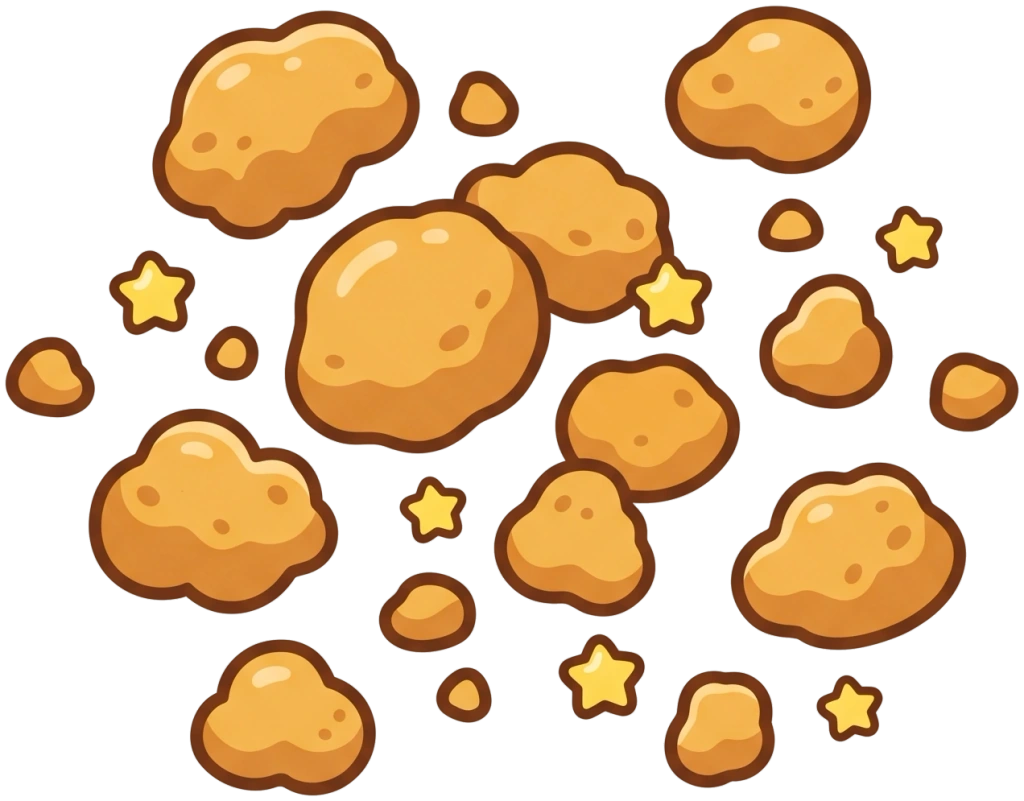
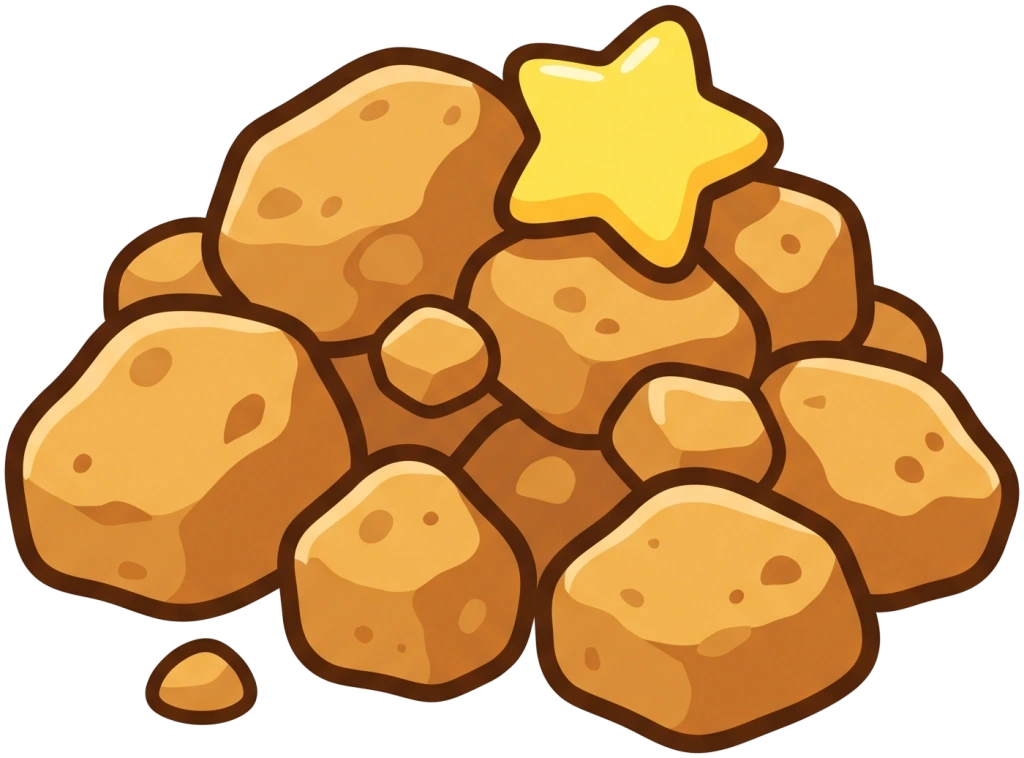
Dedektif Vaka 3: bolum E cizimleri (roman 1-4, kapak) baglandi; tohum ve kirinti yeniden cizimleri
- assets/dedektif3: roman-1..4 ve kapak (Gemini, zemin kalir, 2048x1529); resimler3.ts'te bolum E yer tutucusu kalmadi
- Vaka 3 roman kareleri cercevesiz: karenin icini tam doldurur (cift cerceve kirpimi yok)
- ipucu-tohum-v2 / ipucu-kirinti-v2 eski anahtarlarin yerine (dedektif3-isle.cjs: -vN eki bilerek ezer, -eski PNG islenmez)
- Tohum patikanin kumuna (yatay + dikey), kirinti dikeyde pervazin ustune
- Dikey final: palamut kurabiyesi tabelanin onunde ve solda, tabela kucuk ve sagda, Findik biraz sagda

diff --git a/dedektif/src/resimler3.ts b/dedektif/src/resimler3.ts
@@ -7,7 +7,8 @@
  *     Dosyayı klasöre koymak yeter, kod değişmez (Vite derlemede klasörü tarar; -2, -3 sürüm eki: en büyüğü).
  *  2. KULLAN: depoda zaten olan bir çizim (yeniden kullanım tablosu, senaryodaki "Yeniden kullanılan"lar).
  *  3. YER_TUTUCU: çizim gelene kadar özenli bir yer tutucu (tuvalde kurulur: var olan çizimlerden kırpım / bileşim ve
- *     SVG; yer-tutucu3.ts). Yalnız dosya yoksa üretilir.
+ *     SVG; yer-tutucu3.ts). Yalnız dosya yoksa üretilir. Bölüm B ve E'nin bütün çizimleri geldi: oyunda hiçbiri
+ *     kurulmaz; bölüm E'nin (roman, kapak) yer tutucusu kaldırıldı, B'ninkiler yalnız yedek.
  *  4. TURETILEN: her zaman kodla kurulan bileşimler (kartlardaki 2/4/6 kurabiye, delil fotoğrafları): kaynakları
  *     yukarıdaki sırayla çözülür, Gemini çizimi gelince onlar da kendiliğinden onunla kurulur.
  *
@@ -19,7 +20,6 @@ import {
   agacOnSvg,
   ekmekSvg,
   elIziSvg,
-  geceSvg,
   icEkSvg,
   kalpSvg,
   kapiSvg,
@@ -242,7 +242,7 @@ const SABIT: Record<string, () => string> = {
   'kirinti-tek': () => svgSar(80, 80, `${YS_DEFS}${yildizSeker(40, 40, 30, -80)}`),
 };
 
-// ---------------------------------------------------------------- yer tutucular (bölüm B, E)
+// ---------------------------------------------------------------- yer tutucular (yalnız bölüm B; çizimleri geldi, yedek)
 const kare = (n: number, ciz: (t: Tuval) => Promise<void>): Tarif => ({ w: n, h: n, ciz });
 /** sahne yer tutucularının boyu (4096 × 2286'nın küçüğü: yalnız çizim gelene dek) */
 const SW = 2560;
@@ -360,57 +360,6 @@ export const YER_TUTUCU: Record<string, Tarif> = {
   }),
   palamut: kare(600, (t) => t.svg(palamutSvg(), 0, 0, t.w, t.h)),
   'palamut-kurabiye': kare(600, (t) => t.svg(palamutKurabiyeSvg(), 0, 0, t.w, t.h)),
-  // E1-E4: çizgi roman kareleri (4:3)
-  'roman-1': {
-    w: 1600,
-    h: 1200,
-    async ciz(t) {
-      await sahneKirp(t, 'v3/otobus-ic', [0.52, 0.28, 0.98, 0.9]);
-      await t.svg(geceSvg(1600, 1200), 0, 0, t.w, t.h);
-      for (let i = 0; i < 6; i++) await t.resim('v3/kurabiye', t.w * (0.14 + i * 0.12), t.h * 0.64, t.w * 0.11, t.w * 0.11, { don: (i % 2 ? 8 : -8) });
-      await t.resim('v3/findik-kuyruk', t.w * 0.86, t.h * 0.42, t.w * 0.1, undefined, { don: 160 });
-    },
-  },
-  'roman-2': {
-    w: 1600,
-    h: 1200,
-    async ciz(t) {
-      await sahneKirp(t, 'v3/otobus-ic', [0.52, 0.28, 0.98, 0.9]);
-      await t.svg(geceSvg(1600, 1200), 0, 0, t.w, t.h);
-      await t.resim('v3/findik-yanak', t.w * 0.28, t.h * 0.18, t.w * 0.5, t.w * 0.5);
-      await t.resim('v3/kurabiye', t.w * 0.36, t.h * 0.66, t.w * 0.14, t.w * 0.14, { don: -12 });
-      await t.resim('v3/kurabiye', t.w * 0.47, t.h * 0.68, t.w * 0.14, t.w * 0.14, { don: 10 });
-    },
-  },
-  'roman-3': {
-    w: 1600,
-    h: 1200,
-    async ciz(t) {
-      await sahneKirp(t, 'v3/otobus-yani', [0.5, 0.4, 0.93, 0.98]);
-      await t.svg(svgSar(1600, 1200, `${YS_DEFS}${[0, 1, 2, 3, 4, 5].map((i) => yildizSeker(160 + i * 150, 1000 - i * 40 + (i % 2) * 30, 22, -90 + i * 20)).join('')}`), 0, 0, t.w, t.h);
-      await t.resim('v3/findik', t.w * 0.5, t.h * 0.3, t.w * 0.4, t.w * 0.4, { ayna: true, don: 8 });
-    },
-  },
-  'roman-4': {
-    w: 1600,
-    h: 1200,
-    async ciz(t) {
-      await sahneKirp(t, 'v3/agac', [0.46, 0.42, 0.88, 0.98]);
-      await t.resim('v3/findik-sarilma', t.w * 0.36, t.h * 0.42, t.w * 0.32, t.w * 0.32);
-      await t.resim('dosya:dedektif/poz-mino-rahat', t.w * 0.02, t.h * 0.3, t.w * 0.32);
-      await t.resim('dosya:dedektif2/kino-sarilma', t.w * 0.66, t.h * 0.3, t.w * 0.32);
-      await t.resim('v3/palamut', t.w * 0.77, t.h * 0.385, t.w * 0.06, t.w * 0.06, { don: 14 });
-    },
-  },
-  // E5: Vaka Dosyam kapağı: ağaç, kovuktan bakan yanakları şiş Fındık
-  kapak: {
-    w: 1600,
-    h: 1200,
-    async ciz(t) {
-      await sahneKirp(t, 'v3/agac', [0.555, 0.43, 0.89, 0.88]);
-      await t.resim('v3/findik-yanak', t.w * 0.3, t.h * 0.2, t.w * 0.46, t.w * 0.46);
-    },
-  },
 };
 
 /** Otobüs içinin bir parçası (kapı, pencere, baca) kart için: kutunun çevresi biraz payla, karenin ortasına */
@@ -449,7 +398,7 @@ async function parca(t: Tuval, k: { x0: number; y0: number; x1: number; y1: numb
   t.c.roundRect?.(t.w * 0.04, t.h * 0.04, t.w * 0.92, t.h * 0.92, r);
   t.c.stroke();
 }
-/** Sahneden kırpım tuvali doldurur (kare / roman) */
+/** Sahneden kırpım tuvali doldurur (kart, fotoğraf) */
 async function sahneKirp(t: Tuval, ad: string, k: [number, number, number, number]) {
   await t.resim(ad, 0, 0, t.w, t.h, { kirp: k });
 }

diff --git a/dedektif/src/mantik3.ts b/dedektif/src/mantik3.ts
@@ -132,7 +132,7 @@ export const HALKALAR3: Halka3[] = [
     oda: 'otobus-yani',
     kadraj: [0.36, 0.55, 0.8, 0.95],
     ipuclari: [
-      { id: 'tohum', oda: 'otobus-yani', resim: 'v3/ipucu-tohum', x: 0.462, y: 0.715, h: 0.06, gizli: true },
+      { id: 'tohum', oda: 'otobus-yani', resim: 'v3/ipucu-tohum', x: 0.518, y: 0.73, h: 0.055, gizli: true },
       { id: 'havuc', oda: 'otobus-yani', resim: 'v3/havuc', x: 0.575, y: 0.722, h: 0.06, don: -12, gizli: true },
       { id: 'seker', oda: 'otobus-yani', resim: 'v3/ipucu-yildiz-seker', x: 0.66, y: 0.77, h: 0.055, gizli: true },
     ],
@@ -344,7 +344,7 @@ const YATAY3: Tablo3 = {
     },
   },
   'otobus-yani': {
-    ipucu: { tohum: { x: 0.462, y: 0.715, h: 0.06 }, havuc: { x: 0.575, y: 0.722, h: 0.06, don: -12 }, seker: { x: 0.66, y: 0.77, h: 0.055 } },
+    ipucu: { tohum: { x: 0.518, y: 0.73, h: 0.055 }, havuc: { x: 0.575, y: 0.722, h: 0.06, don: -12 }, seker: { x: 0.66, y: 0.77, h: 0.055 } },
     kadraj: { yol: [0.36, 0.55, 0.8, 0.95] },
     kadraj3: { yani: [0.05, 0.15, 0.85, 1], patikalar: [0.36, 0.55, 0.8, 0.95], izSonu: [0.6, 0.45, 1, 1] },
     // ağaç kolunun ortası: (0.66, 0.77) → (0.95, 0.643); çalının üstünden geçer. Yolda iki şeker eksik (aralık uzun)
@@ -382,7 +382,7 @@ const YATAY3: Tablo3 = {
 
 const DIKEY3: Tablo3 = {
   'otobus-ic': {
-    ipucu: { un: { x: 0.755, y: 0.836, h: 0.07 }, kirinti: { x: 0.82, y: 0.645, h: 0.045 } },
+    ipucu: { un: { x: 0.755, y: 0.836, h: 0.07 }, kirinti: { x: 0.835, y: 0.625, h: 0.045 } },
     // tepsi resmin sağ altında, karakterlerin önünde: sayarken kamera tepsiye yaklaşır (dar kadraj: dunya.ts tam en yapmaz),
     // sahnenin altı ekranın altına dayanır, tepsi karakterlerin başının üstüne çıkar (vaka3.ts: ikisi solda)
     kadraj: { sayi: [0.56, 0.72, 0.95, 0.9], cikis: [0, 0.3, 1, 1] },
@@ -408,13 +408,14 @@ const DIKEY3: Tablo3 = {
       kapi: { x0: 0, y0: 0.21, x1: 0.27, y1: 0.8 },
       surgu: { x: 0.12, y: 0.585 },
       baca: { x0: 0.29, y0: 0.02, x1: 0.66, y1: 0.115 },
-      tabela: { x: 0.69, y: 0.626, h: 0.1 },
-      yeniKurabiye: { x: 0.64, y: 0.618, h: 0.05 },
-      findik: { x: 0.8, y: 0.665, h: 0.17 },
+      // dar pervaz: tabela sağa (Fındık'ın önünde), palamut kurabiyesi solda, tabelanın önünde (arkasında kalıp kaybolmasın)
+      tabela: { x: 0.735, y: 0.64, h: 0.085 },
+      yeniKurabiye: { x: 0.635, y: 0.628, h: 0.068 },
+      findik: { x: 0.85, y: 0.665, h: 0.17 },
     },
   },
   'otobus-yani': {
-    ipucu: { tohum: { x: 0.33, y: 0.775, h: 0.045 }, havuc: { x: 0.475, y: 0.775, h: 0.045, don: -12 }, seker: { x: 0.485, y: 0.878, h: 0.045 } },
+    ipucu: { tohum: { x: 0.375, y: 0.84, h: 0.042 }, havuc: { x: 0.475, y: 0.775, h: 0.045, don: -12 }, seker: { x: 0.485, y: 0.878, h: 0.045 } },
     kadraj: { yol: [0, 0.6, 1, 1] },
     kadraj3: { yani: [0, 0.05, 1, 1], patikalar: [0, 0.6, 1, 1], izSonu: [0, 0.45, 1, 1] },
     // sağ kol: (0.55, 0.855) → (0.92, 0.787); son şeker telefonda da ekranda (x ≤ 0.88)

diff --git a/dedektif/src/yer-tutucu3.ts b/dedektif/src/yer-tutucu3.ts
@@ -404,19 +404,6 @@ ${raf(0.45, 0.28, 0.95)}${raf(0.72, 0.28, 0.95)}${ust}${alt}${karTanesi(X(0.42),
     `<radialGradient id="ki" cx=".55" cy=".45"><stop offset="0" stop-color="#c88a52"/><stop offset=".7" stop-color="#8a5532"/><stop offset="1" stop-color="#5e361c"/></radialGradient><linearGradient id="rf" x1="0" y1="0" x2="0" y2="1"><stop offset="0" stop-color="#d39a5e"/><stop offset="1" stop-color="#a86d3b"/></linearGradient><radialGradient id="cr" cx=".5" cy=".5" r=".75"><stop offset=".6" stop-color="#9a6a42"/><stop offset="1" stop-color="#6e4325"/></radialGradient>${PALAMUT_DEFS}`,
   );
 }
-/** Ay ve yıldızlar (roman: gece) */
-export function geceSvg(w: number, h: number): string {
-  const yildizlar = [
-    [0.15, 0.2],
-    [0.3, 0.12],
-    [0.72, 0.18],
-    [0.85, 0.3],
-    [0.55, 0.08],
-  ]
-    .map(([x, y]) => `<polygon points="${yildizNoktalari(x * w, y * h, w * 0.012, -90, 0.45)}" fill="#fff6c2"/>`)
-    .join('');
-  return svgSar(w, h, `<rect width="${w}" height="${h}" fill="#1d2a5c" opacity=".55"/>${yildizlar}<circle cx="${f(w * 0.72)}" cy="${f(h * 0.2)}" r="${f(w * 0.06)}" fill="#fff4c4" stroke="${KONTUR}" stroke-width="8"/><circle cx="${f(w * 0.745)}" cy="${f(h * 0.185)}" r="${f(w * 0.055)}" fill="#3a4a80" opacity=".0"/>`);
-}
 /** Şişmiş yanaklar (Fındık'ın yanak pozu yer tutucusu): iki yuvarlak balon yanak, kenarı çizgili */
 export function yanakSvg(w: number, h: number, sol: [number, number], sag: [number, number], r: number, renk: string): string {
   const y = (x: number, yy: number) => `<ellipse cx="${f(x)}" cy="${f(yy)}" rx="${f(r)}" ry="${f(r * 0.86)}" fill="${renk}" stroke="${KONTUR}" stroke-width="${f(r * 0.07)}"/><ellipse cx="${f(x)}" cy="${f(yy + r * 0.2)}" rx="${f(r * 0.5)}" ry="${f(r * 0.3)}" fill="#ff8fa3" opacity=".5"/><ellipse cx="${f(x - r * 0.35)}" cy="${f(yy - r * 0.35)}" rx="${f(r * 0.22)}" ry="${f(r * 0.13)}" fill="#fff" opacity=".6"/>`;

diff --git a/dedektif/src/vaka3.css b/dedektif/src/vaka3.css
@@ -40,6 +40,14 @@
 .dd-kok .dd-vk-kapak.dd-vk-agac {
   background: radial-gradient(circle at 50% 38%, #fff6e6, #f3cf9f);
 }
+/* çizgi roman: Vaka 3 kareleri (Gemini, 4:3, kendi çerçevesi yok) karenin içini tam doldurur; Vaka 1-2 karelerinin çift
+   çerçeve kırpımı (dedektif.css: her yandan %1.8) burada gerekmez, kenardaki kuyruk ucu ve palamutlar kesilmez */
+.dd-kok .dd-roman[data-vaka='vaka3'] .dd-kare-ic > img.dd-kare-resim {
+  inset: 0;
+  width: 100%;
+  height: 100%;
+  object-position: 50% 50%;
+}
 
 /* ---------------------------------------------------------------- sahne */
 .dd-kok .dd-vaka3 .dd-sahne {
@@ -192,6 +200,10 @@
   transition: transform 0.45s cubic-bezier(0.3, 1.4, 0.5, 1), opacity 0.25s;
   filter: drop-shadow(0 6px 4px rgba(70, 40, 20, 0.3));
   pointer-events: none;
+}
+/* yeni kurabiye tabelanın önünde (dikeyde pervaz dar: ikisi üst üste biner) */
+.dd-kok .dd-v3-yeni-kurabiye {
+  z-index: 3;
 }
 .dd-kok :is(.dd-v3-tabela, .dd-v3-yeni-kurabiye).acik {
   opacity: 1;

diff --git a/tests/unit/dedektif-vaka3.test.ts b/tests/unit/dedektif-vaka3.test.ts
@@ -262,10 +262,10 @@ describe('Vaka 3: görsel haritası (tek yer, bölüm B adları)', () => {
     }
     // dikey sahneler açık: yerleri ölçüldü (mantik3.ts → DIKEY3)
     expect(DIKEY3_HAZIR).toBe(true);
-    // bölüm B'nin 28 çizimi de geldi; yer tutucuda yalnız bölüm E (roman kareleri, kapak) kalır
-    for (const a of B_LISTESI) expect(eksikler3(), a).not.toContain(a);
-    // henüz çizimi gelmeyenler listesi bölüm B / E adlarından oluşur
-    for (const a of eksikler3()) expect([...B_LISTESI, ...E_LISTESI] as string[]).toContain(a);
+    // bölüm B'nin 28 ve E'nin 5 çizimi de geldi: yer tutucuyla duran dosya yok
+    expect(eksikler3()).toEqual([]);
+    // bölüm E'nin (roman kareleri, kapak) yer tutucusu kaldırıldı: yalnız Gemini çizimi
+    for (const a of E_LISTESI) expect(a in YER_TUTUCU, a).toBe(false);
   });
   it('kodda kullanılan her v3 görseli tanımlı (kartlar, ipuçları, fotoğraflar, demek ki, roman)', () => {
     const adlar = [

diff --git a/dedektif/src/ekranlar.ts b/dedektif/src/ekranlar.ts
@@ -234,7 +234,7 @@ export function dosyaEkrani(app: Uygulama): Ekran {
   const el = h('div.dd-dosya-ekran', {}, oda(), h('div.dd-acilis-los'), h('div.dd-ust', {}, geri, h('h1.dd-baslik', {}, h('span', {}, D.yazi.dosya)), h('div.dd-ust-sag', {}, sesKucuk())), h('div.dd-vaka-izgara', {}, ...kartlar));
 
   /**
-   * Vaka 3'ün romanı: kareler tarayıcıda kurulan yer tutuculardan (hazirla3; ilk açılışta biraz sürer). Hazır olmadan
+   * Vaka 3'ün romanı: kareler Gemini çizimi (assets/dedektif3/roman-1..4); vakanın tuval bileşimleri (hazirla3) ilk açılışta biraz sürer. Hazır olmadan
    * açılırsa kareler boş kalırdı: o arada kapak "yükleniyor" diye nabız atar, ikinci dokunuş yok sayılır.
    */
   let romanBekliyor = false;

diff --git a/ORTAK_NOTLAR.md b/ORTAK_NOTLAR.md
@@ -395,3 +395,4 @@ Gelenler bağlandı: davul, agil, garaj, meyve-sepeti-bos, kemik, ayakkabi, kavu
 - 2026-10-10 KODCU (Dedektif Vaka 3 gerçek hız QA düzeltmeleri): finalde dört kurabiyenin hepsi sürüklenir, ilk ikisi sayılır (kalanlar durur), dizi Fındık'tan uzak; kuyruk ucu gür ve ~2 kat (yer tutucu: sincap kuyruğu kırpımı + aynası; Gemini findik-kuyruk gelince o), daha çok sallanır, dokunma alanı geniş; balon yazısı en az 16 px (ölçüm: 667×375'te önce de 15 px idi); Halka 2'de tepsi ekrana bütünüyle sığmazsa söner; Vaka Dosyam "Yakında" kartı saydam değil (dört kart her boyda sığıyor).
 - 2026-10-10 KODCU (Kino'nun Otobüsü, bölüm D): Gemini'nin 23 Gün 2-3 görseli işlendi (kino-otobus-isle.cjs; tat kapları ve toplar ortak tuvalde, sos/serpinti üstleri topun tuvaline oturur). Doğum günü penceresi: Gemini kendi çerçevesini çizdiği için yalnız orta camın bahçesi kırpıldı. Süsler: çatı külahı, ampul dizisi (külah yoksa arka köşeden kola), yıldız jantlar, Kino'nun kiraz şapkası kafa grubunda. Mum üflenince alev kesilir, duman çıkar; doğum günü kupası Mino'nun ağzının önünde (mum görünür). Raf iki sırada ses düğmesinin altına girmesin diye 62u sıra. Pasta: ?onizleme=1 artık kaydı değiştirmez, kilidi atlatmaz (kısayollar yalnız ?test=1). KALAN İŞ (Gemini): pencere-dogumgunu çerçevesiz ve geniş (16:9) yeniden çizilmeli; şimdiki orta cam akşam ekranında büyütülünce yumuşak.
 - 2026-10-10 KODCU (Gemini çizimleri bağlandı): Pazar Tart Bakalım çürük domates + kompost gövde/kapak (assets/pazar, ekip/illustrator/tart-isle.cjs; kapak gövdenin ağzına oturur, menteşeden açılır). Dedektif Vaka 3 bölüm B 28/28 (sahneler + dikey eşleri, kiler, ipuçları, bütün kartlar, Fındık pozları, kuyruk, baykuş, palamut, palamut kurabiye); bütün yerler yeni çizimden ölçüldü (mantik3.ts → YATAY3 / DIKEY3, sahne3Yerlesim), dikey sahneler açık (DIKEY3_HAZIR = true; telefon dönünce sahne yerinde yeniden dizilir). VAKA3_YAYINDA hâlâ false. KALAN İŞ: bölüm E (roman-1..4, kapak) hâlâ yer tutucu (yeni sahnelerden kodla kırpım); Gemini çizince node ekip/illustrator/dedektif3-isle.cjs.
+- 2026-10-10 KODCU (Dedektif Vaka 3 bölüm E + ipucu yeniden çizimleri): roman-1..4 ve kapak (Gemini, 2048×1529, zemin kalır) bağlandı; resimler3.ts'te bölüm E yer tutucusu kalmadı (eksikler3() boş). Roman kareleri çerçevesiz çizim: Vaka 3'te karenin içini tam doldurur (Vaka 1-2'nin çift çerçeve kırpımı yok). ipucu-tohum-v2 (kompakt ayçiçeği çekirdeği yığını) ve ipucu-kirinti-v2 (altın kırıntılar + sarı yıldız krema) eskilerinin yerine geçti (dedektif3-isle.cjs: -vN eki eski anahtarı bilerek ezer; -eski ekli PNG işlenmez). Tohum yatayda ve dikeyde patikanın kumuna, kırıntı dikeyde pervazın üstüne taşındı. Dikey finalde palamut kurabiyesi tabelanın arkasında kayboluyordu: tabela sağa ve küçük, kurabiye solda ve tabelanın önünde, Fındık biraz sağda.
